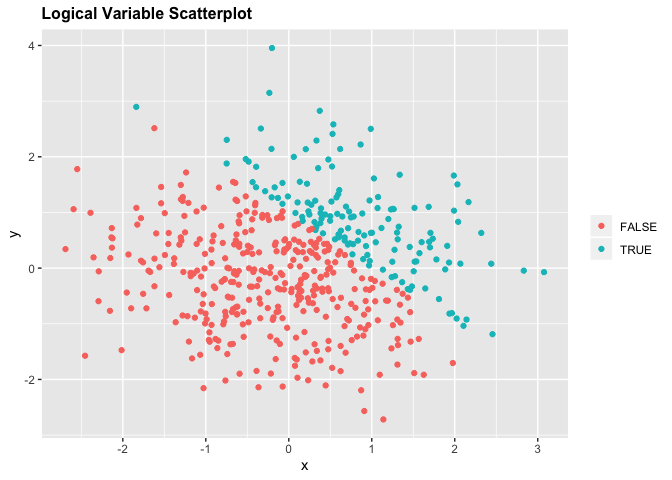
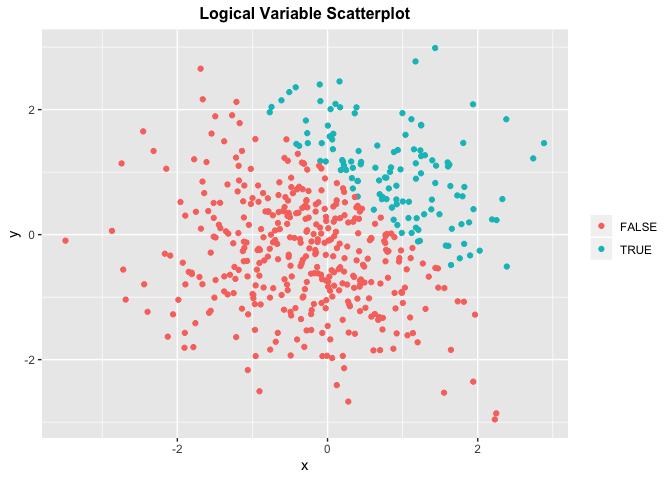
Update plot title.

diff --git a/p8105_hw1_dz2426.md b/p8105_hw1_dz2426.md
@@ -48,8 +48,8 @@ mean_char_vec = mean(pull(df_1, char_vec))
 mean_fac_vec = mean(pull(df_1, fac_vec))
 ```
 
-Comment 1: <br /> The mean of the random sample is 0.36. <br /> The mean
-of the logic vector is 0.88. <br /> The mean of the character vector is
+Comment 1: <br /> The mean of the random sample is 0.62. <br /> The mean
+of the logic vector is 0.75. <br /> The mean of the character vector is
 NA. <br /> The mean of the factor vector is NA. <br />
 
 ``` r
@@ -77,8 +77,8 @@ Here is the second code
 as.numeric(pull(df_1, log_vec)) * pull(df_1, random_samp)
 ```
 
-    ## [1] 0.38537827 0.30223278 0.03772192 0.19149636 0.00000000 0.30213946
-    ## [7] 0.41325817 1.72194033
+    ## [1] 0.3915131 0.2275321 0.9481348 0.0000000 0.0000000 2.0724523 0.5781464
+    ## [8] 1.6251206
 
 ``` r
 as.factor(pull(df_1, log_vec)) * pull(df_1, random_samp)
@@ -90,8 +90,8 @@ as.factor(pull(df_1, log_vec)) * pull(df_1, random_samp)
 as.numeric(as.factor(pull(df_1, log_vec))) * pull(df_1, random_samp)
 ```
 
-    ## [1]  0.77075654  0.60446556  0.07544383  0.38299273 -0.45614256  0.60427893
-    ## [7]  0.82651634  3.44388066
+    ## [1]  0.7830263  0.4550641  1.8962696 -0.4829515 -0.4320848  4.1449046
+    ## [7]  1.1562928  3.2502412
 
 # Problem 2
 
@@ -119,9 +119,9 @@ prop_case = mean(pull(df_2, log_vec_2))
 ```
 
 Description of data frame: <br /> The size of the data set is 500 and 5.
-<br /> The mean, median and standard deviation of x are 0.04, 0.11 and
-1.02, respectively. <br /> The proportion of cases for which x+y\>1 is
-0.29.
+<br /> The mean, median and standard deviation of x are -0.04, -0.02 and
+1.05, respectively. <br /> The proportion of cases for which x+y\>1 is
+0.25.
 
 ## Section 2
 
@@ -135,16 +135,17 @@ ggplot(df_2, aes(x = x, y = y, color = log_vec_2)) +
   ylab("y") +
   labs(title = "Logical Variable Scatterplot") +
   theme(legend.position = "right", legend.title = element_blank(),
-        plot.title = element_text(color = "black", size = 12, face = "bold"))
+        plot.title = element_text(color = "black", 
+                                  size = 12, 
+                                  face = "bold", 
+                                  hjust = 0.5))
 ```
 
 ![](p8105_hw1_dz2426_files/figure-gfm/yx_Logical_scatterplot-1.png)<!-- -->
 
 ``` r
-ggsave("plot_one.png")
+ggsave("plot_one.png", width = 3, height = 3, scale = 0.75)
 ```
-
-    ## Saving 7 x 5 in image
 
 ``` r
 ggplot(df_2, aes(x = x, y = y, color = num_vec_2)) +
@@ -153,7 +154,10 @@ ggplot(df_2, aes(x = x, y = y, color = num_vec_2)) +
   ylab("y") +
   labs(title = "Numeric Variable Scatterplot") +
   theme(legend.position = "right", legend.title = element_blank(), 
-        plot.title = element_text(color = "black", size = 12, face = "bold"))
+        plot.title = element_text(color = "black", 
+                                  size = 12, 
+                                  face = "bold", 
+                                  hjust = 0.5))
 ```
 
 ![](p8105_hw1_dz2426_files/figure-gfm/yx_numeric_scatterplot-1.png)<!-- -->
@@ -165,12 +169,15 @@ ggplot(df_2, aes(x = x, y = y, color = fac_vec_2)) +
   ylab("y") +
   labs(title = "Factor Variable Scatterplot") +
   theme(legend.position = "right", legend.title = element_blank(),
-        plot.title = element_text(color = "black", size = 12, face = "bold"))
+        plot.title = element_text(color = "black", 
+                                  size = 12, 
+                                  face = "bold", 
+                                  hjust = 0.5))
 ```
 
 ![](p8105_hw1_dz2426_files/figure-gfm/yx_factor_scatterplot-1.png)<!-- -->
 Comment 3: <br /> In line with the value of the proportion of cases for
 which x+y\>1, these three scatterplots clearly show that there is a much
-higher chance to obtain x+y\<1 (red dots). On each plot, it also shows
-that with higher x and y values (blue dots), it is more likely to get a
-‘TRUE’ result (x+y\>1).
+higher chance to obtain x+y\<1 (red or darker blue dots). On each plot,
+it also shows that with higher x and y values (green or lighter blue
+dots), it is more likely to get a ‘TRUE’ result (x+y\>1).
